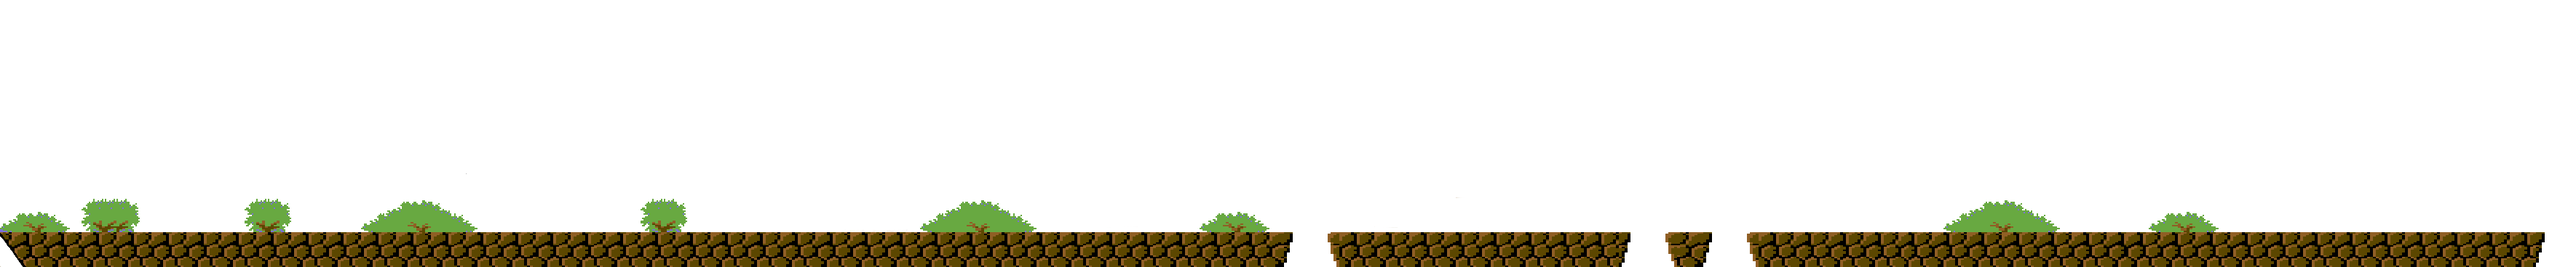
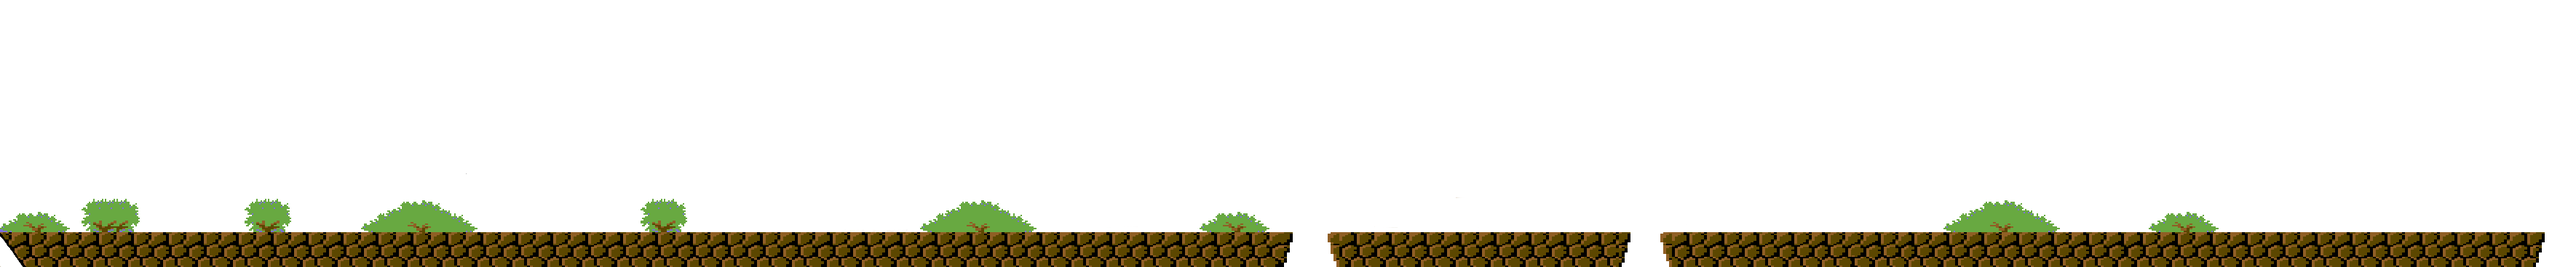
wip level 2 enemie hitbox

Changed region(s): [[0.6216, 0.8668, 0.7149, 1.0]]

diff --git a/main.css b/main.css
@@ -14,7 +14,7 @@ body {
   width: 100vw;
   height: 100vh;
   overflow: hidden;
-  background-color:black;
+  background-color: black;
 }
 /* first scene */
 .first-scene {
@@ -43,7 +43,6 @@ body {
   justify-content: center;
   opacity: 0;
   visibility: hidden;
-
 }
 
 #intro button {
@@ -67,7 +66,6 @@ body {
 #character-text-wrapper p {
   font: 4rem;
   text-align: center;
-  
 }
 
 #first-step {
@@ -100,7 +98,7 @@ body {
   bottom: 14%;
   margin-left: -100px;
 }
-.explosion{
+.explosion {
   background: url("../../assets/level1/explosion.gif") no-repeat;
   background-position: center;
   background-size: cover;
@@ -110,27 +108,26 @@ body {
   height: 200px;
   opacity: 0;
 }
-#explosion1{
-  left:20vw;
-  top:10vw;
+#explosion1 {
+  left: 20vw;
+  top: 10vw;
 }
-#explosion2{
-  left:27.5vw;
-  top:27.5vw;
+#explosion2 {
+  left: 27.5vw;
+  top: 27.5vw;
 }
-#explosion3{
+#explosion3 {
   right: 30vw;
-  top:20vw;
+  top: 20vw;
 }
-#explosion4{
+#explosion4 {
   right: 3vw;
-  top:30vw;
+  top: 30vw;
 }
-#explosion5{
+#explosion5 {
   right: 1vw;
-  top:10vw;
+  top: 10vw;
 }
-
 
 /* second scene */
 .second-scene {
@@ -138,6 +135,26 @@ body {
   width: 100vw;
   aspect-ratio: 16/9;
   position: relative;
+}
+
+.enemieGround {
+  position: absolute;
+  z-index: 9999;
+  background-color: red;
+  width: 100px;
+  height: 100px;
+}
+#enemieGround1 {
+  bottom: 200px;
+  left: 0;
+}
+#enemieGround2 {
+  bottom: 400px;
+  left: 0;
+}
+#enemieGround3 {
+  bottom: 600px;
+  left: 0;
 }
 
 .scroll-parent {
@@ -163,8 +180,6 @@ body {
   transition: transform 0.5s;
   z-index: 9998;
 }
-
-
 
 .second-scene #character-wrapper-2 {
   bottom: 28px;
@@ -198,22 +213,22 @@ body {
   z-index: 9999;
   position: absolute;
   bottom: 00px;
+  width: 6px;
 }
 #hitBoxGround1 {
-  width: 18px;
-  left: 1790px;
+  background-color: red;
+
+  left: 1792.5px;
 }
 #hitBoxGround2 {
-  width: 18px;
-  left: 2255px;
-}
-#hitBoxGround3 {
-  width: 18px;
-  left: 2365px;
+  background-color: red;
+
+  left: 2257.5px;
 }
 #hitBoxGround4 {
-  width: 18px;
-  left: 3510px;
+  background-color: red;
+
+  left: 3512.5px;
 }
 
 .visible {

diff --git a/css/animations.css b/css/animations.css
@@ -7,7 +7,7 @@
 }
 .second-animation-character {
   animation: walkOutFrame 3s linear;
- 
+
   animation-fill-mode: forwards;
 }
 .character-turn {
@@ -22,12 +22,16 @@
   animation: enemieRight 4s linear;
   animation-fill-mode: both;
 }
-.darken{
+.darken {
   animation: fadeOut 3s;
 }
 @keyframes fadeOut {
-  0% { opacity: 1; }
-  100% { opacity: 0; }
+  0% {
+    opacity: 1;
+  }
+  100% {
+    opacity: 0;
+  }
 }
 @keyframes walkInFrame {
   from {
@@ -63,7 +67,6 @@
   }
 }
 
-
 @keyframes enemieLeft {
   0% {
     transform: translate(0, 0) scale(-1, 1);
@@ -82,12 +85,11 @@
   }
 }
 @keyframes enemieRight {
-
   0% {
     transform: translate(0, 0);
   }
   25% {
-    transform: translate(-40vw, 10vw) ;
+    transform: translate(-40vw, 10vw);
   }
   25.1% {
     transform: translate(-40vw, 10vw) scale(-1, 1);
@@ -98,7 +100,7 @@
   75% {
     transform: translate(-10vw, 0vw) scale(-1, 1);
   }
- 
+
   100% {
     transform: translate(20vw, 0vw) scale(-1, 1);
   }
@@ -116,7 +118,7 @@
 .character-sc1 {
   animation: walk 0.3s steps(4) infinite;
 }
-#character-sc2 {
+#charactersc2 {
   animation: walk 0.3s steps(4) infinite;
 }
 #infoGuy {

diff --git a/js/colision.js b/js/colision.js
@@ -22,7 +22,6 @@ function checkColisonGuy() {
 
 const box1 = document.getElementById("hitBoxGround1");
 const box2 = document.getElementById("hitBoxGround2");
-const box3 = document.getElementById("hitBoxGround3");
 const box4 = document.getElementById("hitBoxGround4");
 
 function colisionHole() {
@@ -30,7 +29,7 @@ function colisionHole() {
 
   var object_2 = box1.getBoundingClientRect();
   var object_3 = box2.getBoundingClientRect();
-  var object_4 = box3.getBoundingClientRect();
+
   var object_5 = box4.getBoundingClientRect();
 
   if (
@@ -53,16 +52,7 @@ function colisionHole() {
     enableKeyboard = false;
     pause();
   }
-  if (
-    object_1.left < object_4.left + object_4.width &&
-    object_1.left + object_1.width > object_4.left &&
-    object_1.top < object_4.top + object_4.height &&
-    object_1.top + object_1.height > object_4.top
-  ) {
-    document.getElementById("deadWrapper").classList.add("visible");
-    enableKeyboard = false;
-    pause();
-  }
+
   if (
     object_1.left < object_5.left + object_5.width &&
     object_1.left + object_1.width > object_5.left &&

diff --git a/level2.html b/level2.html
@@ -27,10 +27,13 @@
             <div id="ground1" class="ground">
               <div id="hitBoxGround1" class="hitBoxGround"></div>
               <div id="hitBoxGround2" class="hitBoxGround"></div>
-              <div id="hitBoxGround3" class="hitBoxGround"></div>
               <div id="hitBoxGround4" class="hitBoxGround"></div>
               <div id="hitBoxGround5" class="hitBoxGround"></div>
             </div>
+            <div id="enemieGround1" class="enemieGround"></div>
+            <div id="enemieGround2" class="enemieGround"></div>
+            <div id="enemieGround3" class="enemieGround"></div>
+
             <div id="clouds1" class="clouds"></div>
             <div id="background1" class="background"></div>
 

diff --git a/index.html b/index.html
@@ -4,9 +4,7 @@
     <meta charset="utf-8" />
     <title>Retro Jumper</title>
     <script defer src="./index.js"></script>
-
     <script defer src="./js/colision.js"></script>
-
     <link rel="stylesheet" href="main.css" />
     <link rel="stylesheet" href="./css/background.css" />
     <link rel="stylesheet" href="./css/animations.css" />

diff --git a/js/animations.js b/js/animations.js
@@ -40,6 +40,7 @@ const pause = function () {
   ground1Anim.pause();
   ground2Anim.pause();
   infoGuyBoxAnim.pause();
+  charAnim.pause();
 };
 
 const moveLeft = function () {
